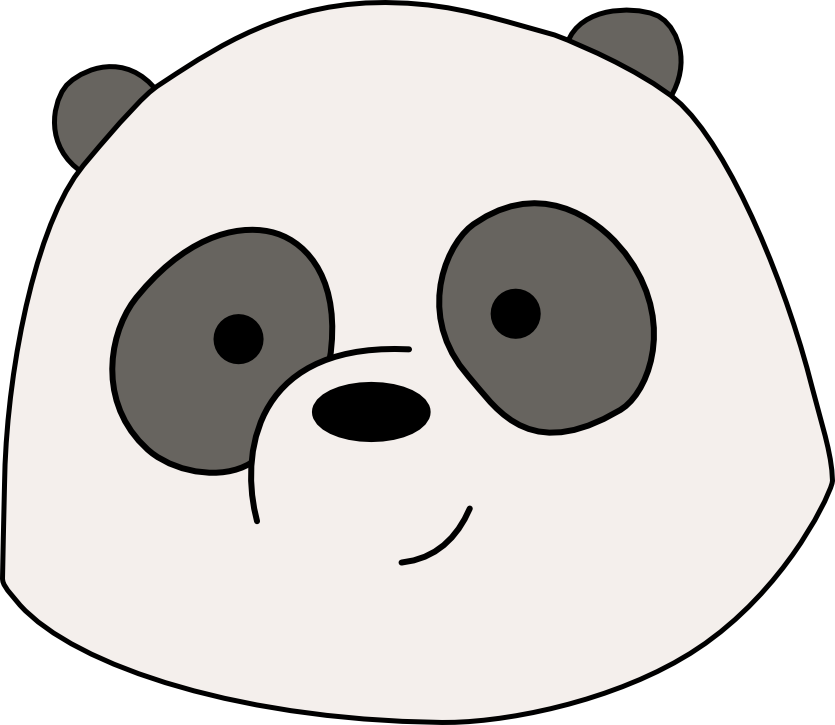
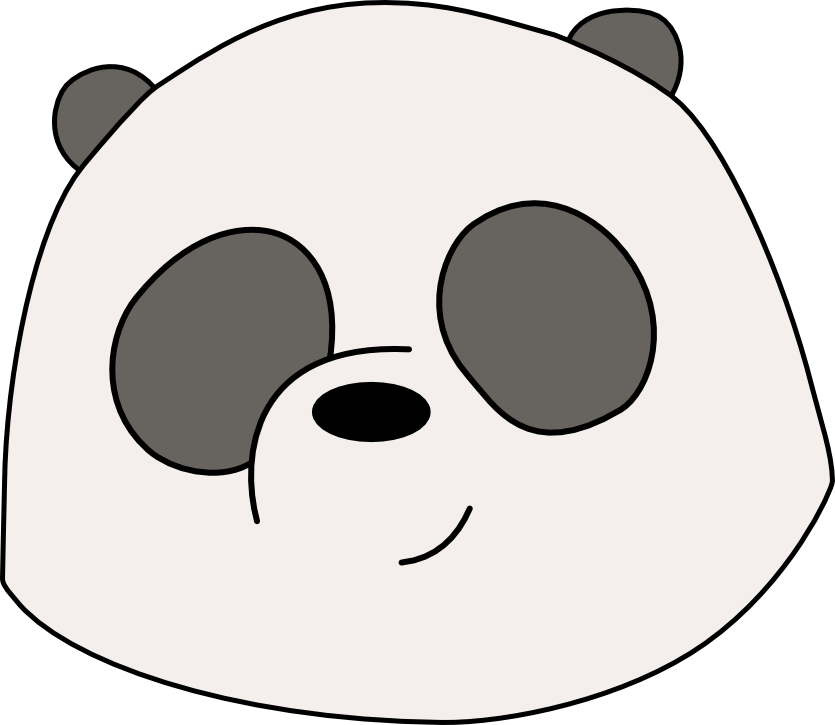
Pantalla de log-in terminada! Ahora toca la de sign-up, que va a ser más sencilla.

Changed region(s): [[0.2491, 0.4248, 0.3425, 0.5159], [0.5916, 0.3945, 0.6539, 0.4855]]

diff --git a/frontend/login/login.html b/frontend/login/login.html
@@ -5,23 +5,20 @@
     <meta name="viewport" content="width=device-width, initial-scale=1.0">
     <link rel="stylesheet" href="https://stackpath.bootstrapcdn.com/bootstrap/4.4.1/css/bootstrap.min.css" integrity="sha384-Vkoo8x4CGsO3+Hhxv8T/Q5PaXtkKtu6ug5TOeNV6gBiFeWPGFN9MuhOf23Q9Ifjh" crossorigin="anonymous">
     <link rel="stylesheet" href="login.css">
-    <script src="https://code.jquery.com/jquery-3.4.1.slim.min.js" integrity="sha384-J6qa4849blE2+poT4WnyKhv5vZF5SrPo0iEjwBvKU7imGFAV0wwj1yYfoRSJoZ+n" crossorigin="anonymous"></script>
+    <script src="https://code.jquery.com/jquery-3.5.1.min.js" integrity="sha256-9/aliU8dGd2tb6OSsuzixeV4y/faTqgFtohetphbbj0=" crossorigin="anonymous"></script>
     <script src="https://cdn.jsdelivr.net/npm/popper.js@1.16.0/dist/umd/popper.min.js" integrity="sha384-Q6E9RHvbIyZFJoft+2mJbHaEWldlvI9IOYy5n3zV9zzTtmI3UksdQRVvoxMfooAo" crossorigin="anonymous"></script>
     <script src="https://stackpath.bootstrapcdn.com/bootstrap/4.4.1/js/bootstrap.min.js" integrity="sha384-wfSDF2E50Y2D1uUdj0O3uMBJnjuUD4Ih7YwaYd1iqfktj0Uod8GCExl3Og8ifwB6" crossorigin="anonymous"></script>
     <script src="https://kit.fontawesome.com/819fcaed26.js" crossorigin="anonymous"></script>
+    <script src="login.js"></script>
     <title>Document</title>
     
 </head>
 <body class="bg-dark">
-    <div class="login container-sm bg-light">
+    <div class="login-c container-sm bg-light">
         <div class="panda-logo">
-            <span class="pupil pupil-l"></span>
-            <span class="pupil pupil-r"></span>
-            <img class="p-body" src="assets/headAndBody.png">
-                <img class="p-controller" src="assets/controller.png"/>
-            </img>
-            <img class="p-Lpaw p-paw" src="assets/l_paw.png" alt=""/>
-            <img class="p-Rpaw p-paw" src="assets/r_paw.png" alt=""/>
+            <div class="pupil pupil-l"></div>
+            <div class="pupil pupil-r"></div>
+            <img class="p-head" src="assets/head.png"/>
         </div>
         <form class="form-group login login-form" action="#" method="post">
             <label>username:</label>
@@ -29,7 +26,8 @@
             <input class="form-control" type="text" name="login" id="username">
             <label>password:</label>
             <input class="form-control" type="password" name="login" id="password">
-            <button><i class="fas fa-arrow-circle-right"></i></button>
+            <button class="btn loginbtn btn-link"><i class="fas fa-arrow-circle-right fa-2x"></i></button>
+            <button class="btn signupbtn btn-link">Sign-up</button>
         </form>
     </div>
     

diff --git a/frontend/login/login.css b/frontend/login/login.css
@@ -1,85 +1,92 @@
-.login{
+.login-c{
     width: 35%;
-    height: 500px;
     min-height: 500px;
-    max-height: 500px;
-    min-width: 450px;
+    max-height: 600px;
+    min-width: 350px;
     max-width: 450px;
     position: absolute;
     top: 50%;
     left: 50%;
     transform: translate(-50%, -50%);
-    min-width: 300px;
+    text-align: center;
 }
 .login-form{
     position: absolute;
-    max-height: 180px;
-    width: 20%;
-    top: 100%;
+    height: 180px;
+    width: 60%;
+    top: 60%;
+    left: 20%;
 }
 
 .panda-logo{
     position: absolute;
-    /* width must be half of height always to keep image cool */
-    width: 40%;
-    height: 50%;
-    left: 25%;
-    top: 5%;
+    width: 170px;
+    height: 100%;
+    top: 50px;
     z-index: 0;
 }
 
-.p-paw{
+.p-head{
+    display: inline-block;
     position: absolute;
+    width: 120%;
 }
 
-.p-Lpaw{
-    width: 25%;
-    top: 42%;
-    left: 15%;
+.pauseanimation{
+    animation-play-state: paused;
 }
 
-.p-Rpaw{
-    width: 30%;
-    top: 42%;
-    left: 50%;
+.animateheadIn{
+    animation-name: FocusOnFormControlHead;
+    animation-duration: 400ms;
+    animation-fill-mode: forwards;
 }
 
-.p-controller{
-    position: absolute;
-    width: 70%;
-    height: 50%;
-    top: 42%;
-    left: -10%;
-}
-
-.p-body{
-    position: absolute;
-    width: 100%;
+@keyframes FocusOnFormControlHead{
+    50%{
+        transform: rotate(-4deg);
+    }
+    100%{
+        transform: rotate(0deg);
+    }
 }
 
 .pupil{
-    position: absolute;
-    width: 3%;
+    display: inline-block;
+    position: relative;
+    width: 8%;
     height: 3%;
     background-color: black;
     border-radius: 50%;
+
 }
 
 .pupil-l{
-    position: absolute;
-    left: 57%;
-    top: 20%;
+    display: inline-block;
+    position: relative;
+    left: 155px;
+    top: 67px;
     z-index: 1;
 }
 
 .pupil-r{
-    position: absolute;
-    left: 35%;
-    top: 21%;
+    display: inline-block;
+    position: relative;
+    left: 65px;
+    top: 76px;
     z-index: 1;
+    
 }
 
-button{
-    border-width: 0px;
+.loginbtn{
+    position: absolute;
+    left: 100%;
+    top: 55%;
+    width: 60px;
 }
 
+.signupbtn{
+    position: absolute;
+    left: -32%;
+    top: 85%;
+}

diff --git a/frontend/login/login.js b/frontend/login/login.js
@@ -1,0 +1,81 @@
+
+function main(){
+    let pupil_R = $('.pupil-r');
+    let pupil_L = $('.pupil-l');
+    let head = $('.p-head');
+    let inputValue = 0;
+
+    document.querySelectorAll('.form-control').forEach(item=>{
+        item.addEventListener('focus',()=>{
+            pupil_L.animate({
+                left: '151px',
+                top: '74px'
+            },200);
+
+            pupil_R.animate({
+                left: '61px',
+                top: '89px'
+            },200);
+
+            head.addClass('animateheadIn');
+            setTimeout(()=>{
+                head.addClass('pauseanimation');
+            },200)
+            
+        });
+
+        item.addEventListener('blur',()=>{
+            head.removeClass('pauseanimation');
+            setTimeout(()=>{
+                head.removeClass('animateheadIn');
+            },300)
+
+            pupil_L.animate({
+                left: '155px',
+                top: '67px'
+            },200);
+
+            pupil_R.animate({
+                left: '65px',
+                top: '76px'
+            },200);
+            
+        });
+
+        item.addEventListener('input',(e)=>{
+            let length = e.target.value.length;
+            if (length > inputValue && length < 8){
+                pupil_R.animate({
+                    left: '+=' + 1 + 'px',
+                    top: '+=' + 0.2 + 'px'
+                },100);
+
+                pupil_L.animate({
+                    left: '+=' + 0.2 + 'px',
+                    top: '+=' + 1 + 'px'
+                },100);
+
+            } else if(length > inputValue && length >= 4 && length < 24){
+                pupil_L.animate({
+                    left: '+=' + 1 + 'px'
+                },100);
+            } else if(length > inputValue){
+
+            } else{
+                pupil_R.animate({
+                    left: '-=' + 1 + 'px',
+                    top: '-=' + 0.2 + 'px'
+                },100);
+                pupil_L.animate({
+                    left: '-=' + 1 + 'px',
+                    top: '-=' + 0.2 + 'px'
+                },100);
+            }
+            inputValue = length;
+        });
+
+    });
+
+}
+
+window.addEventListener('load',main);
